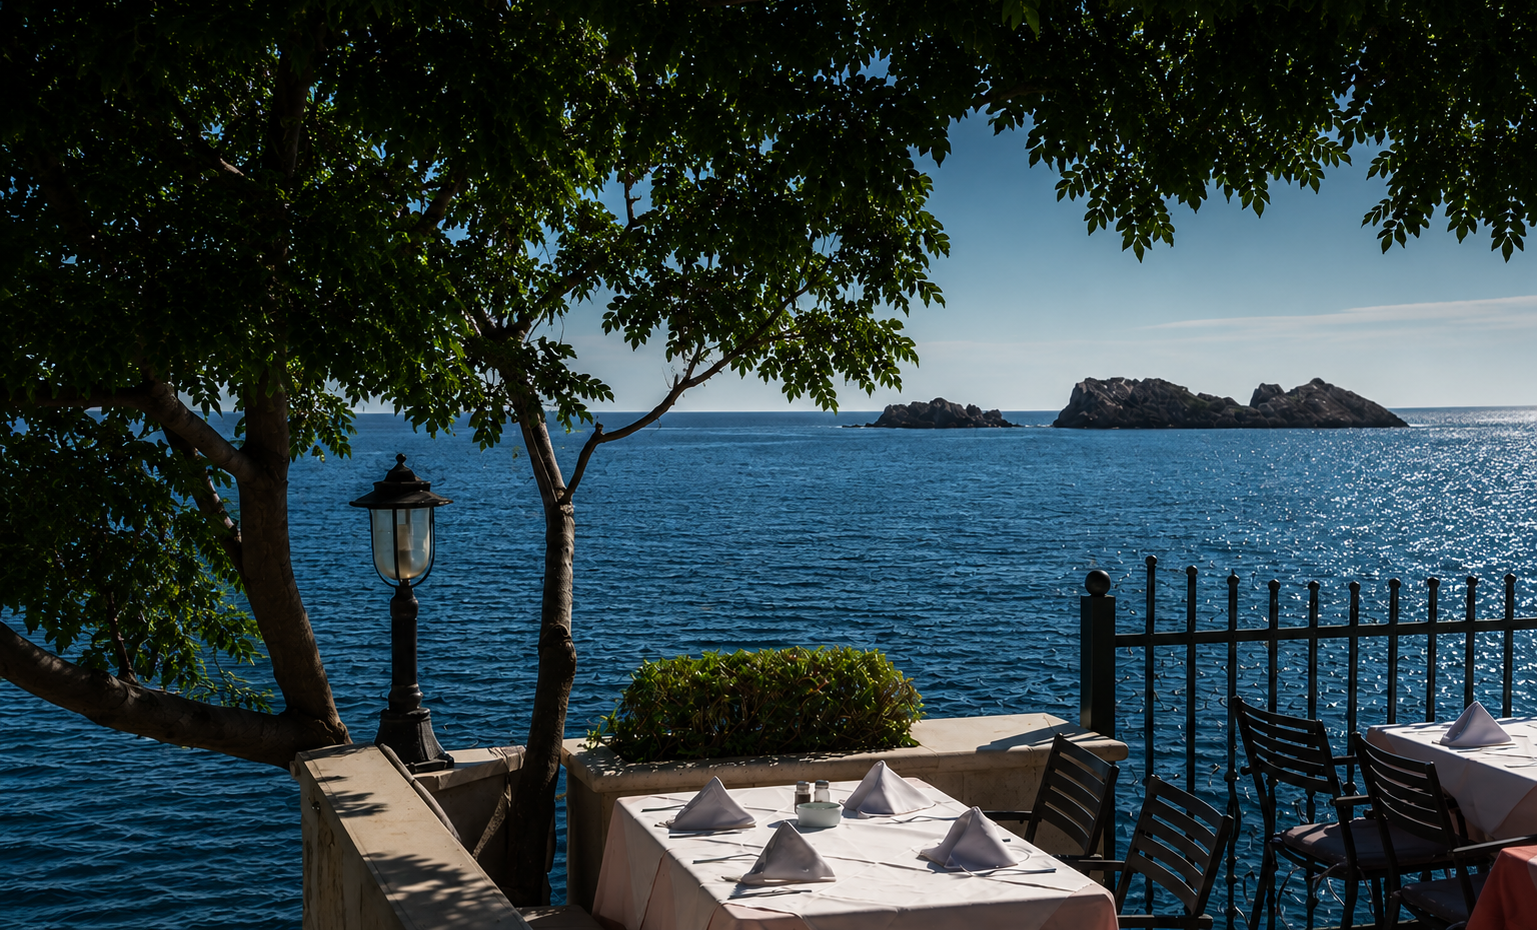
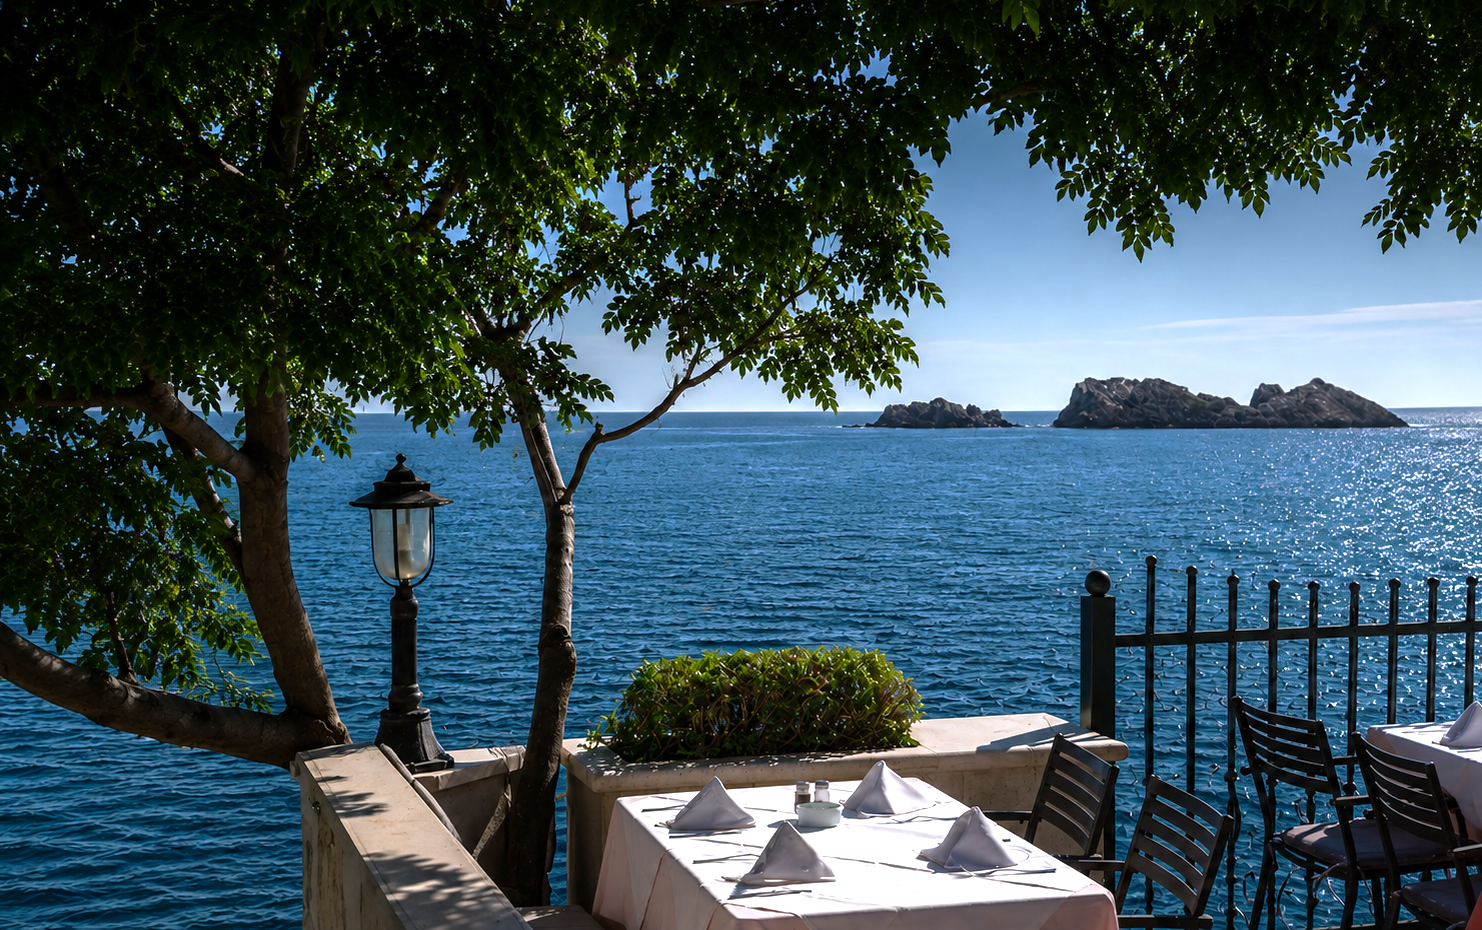
reviews

diff --git a/pansion_kamp_nikola/src/routes/Landing_page.css b/pansion_kamp_nikola/src/routes/Landing_page.css
@@ -132,3 +132,75 @@ h2 {
         margin-bottom: 16px;
     }
 }
+
+.reviews_section {
+    padding: clamp(32px, 6vw, 64px) clamp(16px, 5vw, 40px);
+    background-color: var(--secondary_color);
+    opacity: 0;
+    transform: translateY(40px);
+    transition: opacity 0.8s ease, transform 0.8s ease;
+}
+
+.reviews_section.is_visible {
+    opacity: 1;
+    transform: translateY(0);
+}
+
+.reviews_title {
+    text-align: center;
+    margin-bottom: clamp(24px, 4vw, 40px);
+}
+
+.reviews_grid {
+    display: grid;
+    grid-template-columns: repeat(3, 1fr);
+    gap: clamp(1rem, 3vw, 2rem);
+    max-width: 1100px;
+    margin: 0 auto;
+}
+
+.review_card {
+    position: relative;
+    padding: clamp(24px, 3vw, 32px) clamp(20px, 3vw, 28px);
+    border-radius: 12px;
+    text-align: left;
+}
+
+.review_card_blue {
+    background-color: var(--primary_color);
+    color: var(--secondary_color);
+}
+
+.review_card_white {
+    background-color: var(--secondary_color);
+    color: var(--primary_text_color);
+    border: 1.5px solid var(--primary_color);
+}
+
+.review_author {
+    font-family: var(--primary_font);
+    font-size: clamp(20px, 2.5vw, 24px);
+    font-weight: 500;
+    margin: 0 0 8px;
+}
+
+.review_stars {
+    color: var(--third_color);
+    font-size: clamp(16px, 2vw, 20px);
+    letter-spacing: 3px;
+    margin-bottom: 12px;
+}
+
+.review_text {
+    font-family: var(--secondary_font);
+    font-size: clamp(14px, 1.6vw, 16px);
+    line-height: 1.6;
+    margin: 0;
+}
+
+@media (max-width: 900px) {
+    .reviews_grid {
+        grid-template-columns: 1fr;
+        max-width: 500px;
+    }
+}

diff --git a/pansion_kamp_nikola/src/routes/Landing_page.jsx b/pansion_kamp_nikola/src/routes/Landing_page.jsx
@@ -12,8 +12,16 @@ const Landing_page = () => {
   const [pansionRef, pansionVisible] = useScrollAnimation();
   const [campRef, campVisible] = useScrollAnimation();
   const [discoverRef, discoverVisible] = useScrollAnimation();
+  const [reviewsRef, reviewsVisible] = useScrollAnimation();
+
 
   const [heroRef, heroOffset] = useParallax(0.5);
+
+  const reviews = [
+  { id: 'review1', rating: 5 },
+  { id: 'review2', rating: 5 },
+  { id: 'review3',rating: 5 },
+];
 
 
   return (
@@ -76,6 +84,21 @@ const Landing_page = () => {
             <button className="landing_page_button">{t('landing_page.discover.button')}</button>
           </a>
         </div>
+      </div>
+
+      <div className={`reviews_section ${reviewsVisible ? 'is_visible' : ''}`} ref={reviewsRef}>
+          <h2 className="reviews_title">{t('landing_page.reviews.title')}</h2>
+          <div className="reviews_grid">
+              {reviews.map((review, index) => (
+                  <div
+                      key={review.id}
+                      className={`review_card ${index % 2 === 1 ? 'review_card_white' : 'review_card_blue'}`}
+                  >
+                      <div className="review_stars">{'★'.repeat(review.rating)}</div>
+                      <p className="review_text">{t(`landing_page.reviews.items.${review.id}`)}</p>
+                  </div>
+              ))}
+          </div>
       </div>
 
     </div>
